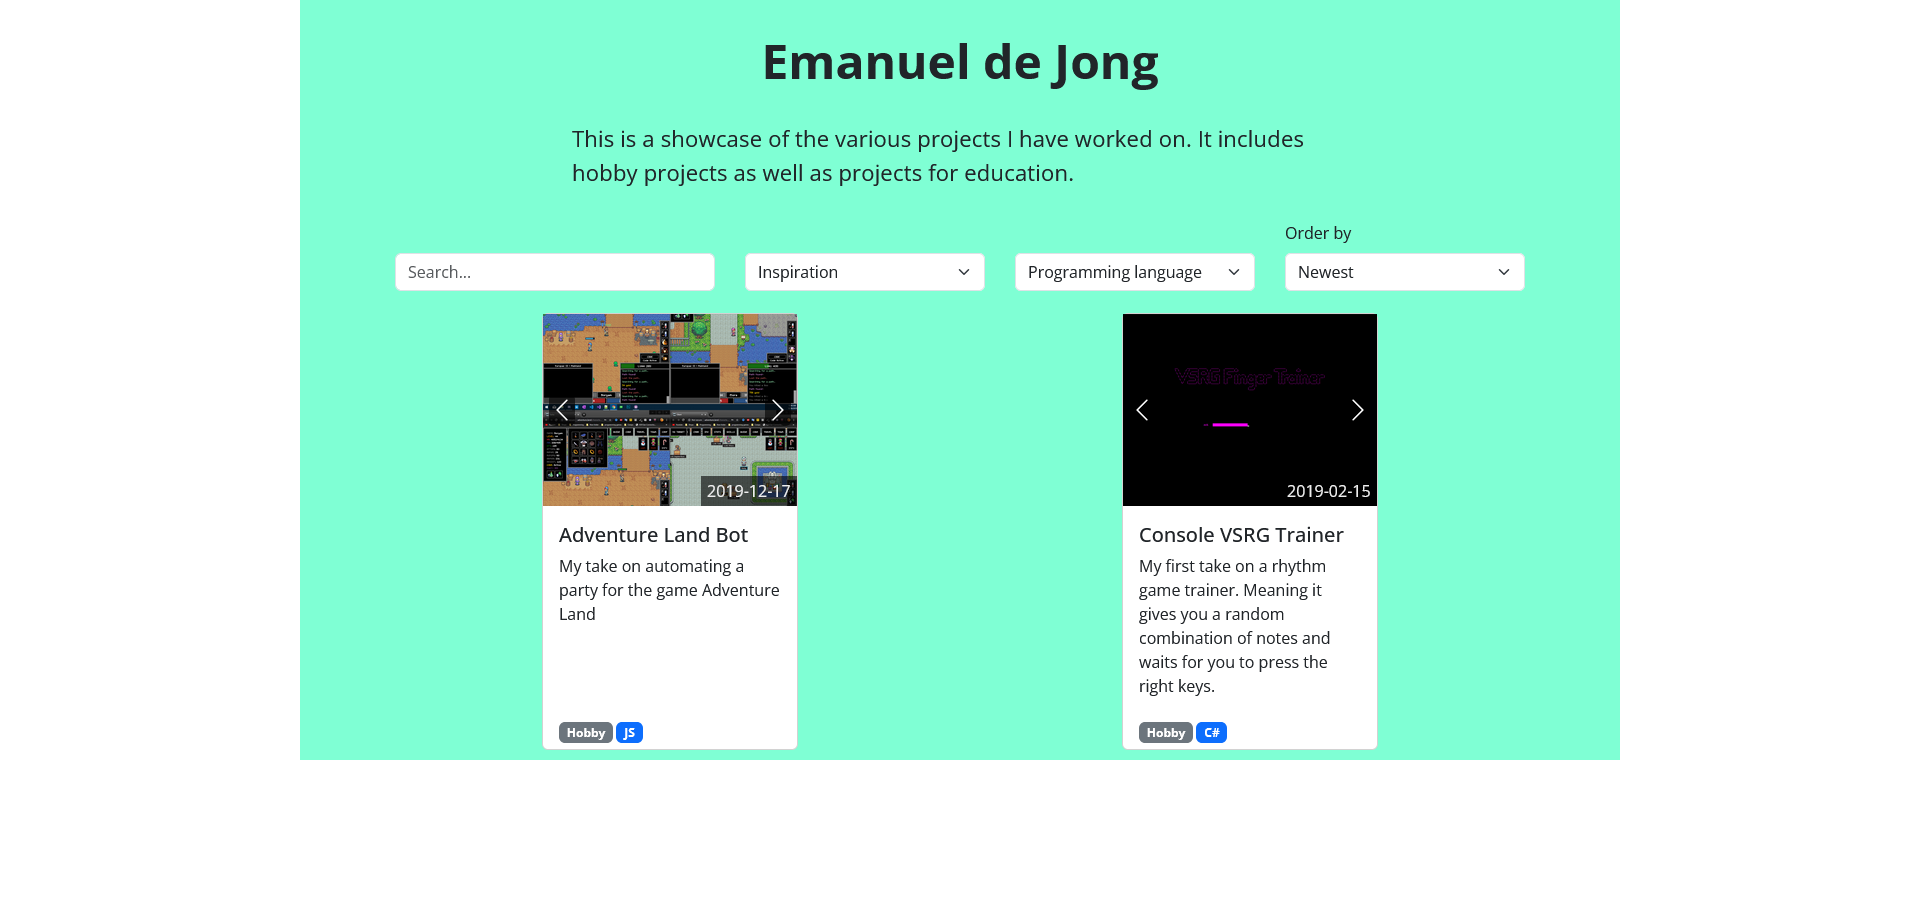
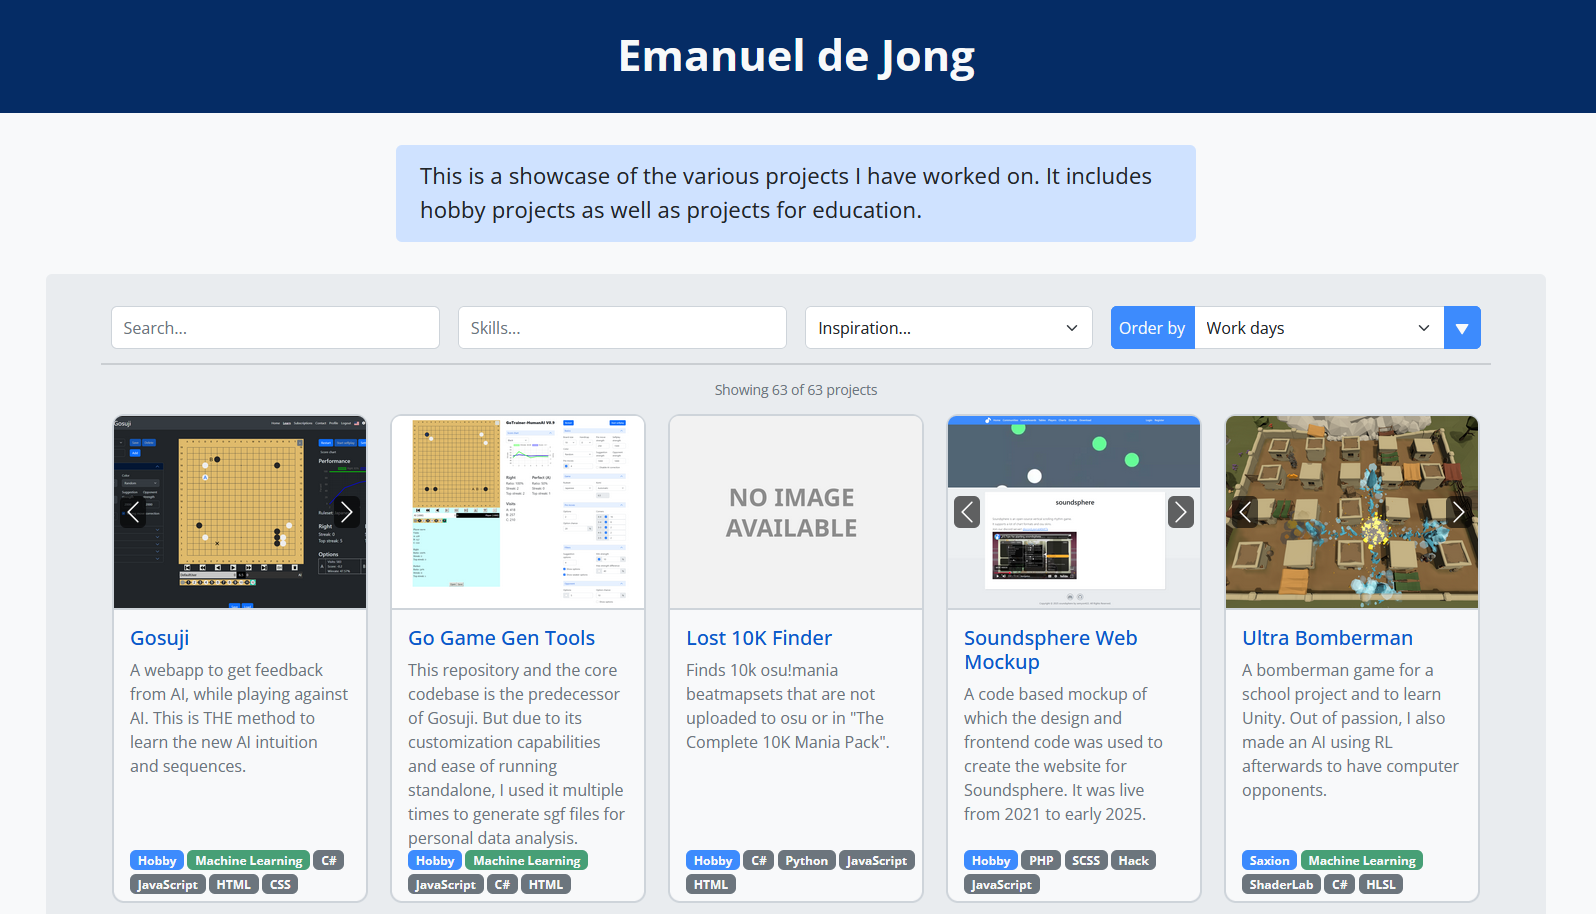
Update screenshots with current design

diff --git a/README.md b/README.md
@@ -6,5 +6,5 @@ A website to show off my projects on GitHub.
 
 | | |
 | :---: | :---: |
-| ![](/Screenshots/1-Page.png) | ![](/Screenshots/.png) |
-   
+| ![](/Screenshots/1-Page.png) | ![](/Screenshots/2-Page_Filters.png) |
+| ![](/Screenshots/3-Mobile-1.png) | ![](/Screenshots/4-Mobile-2.png) |
